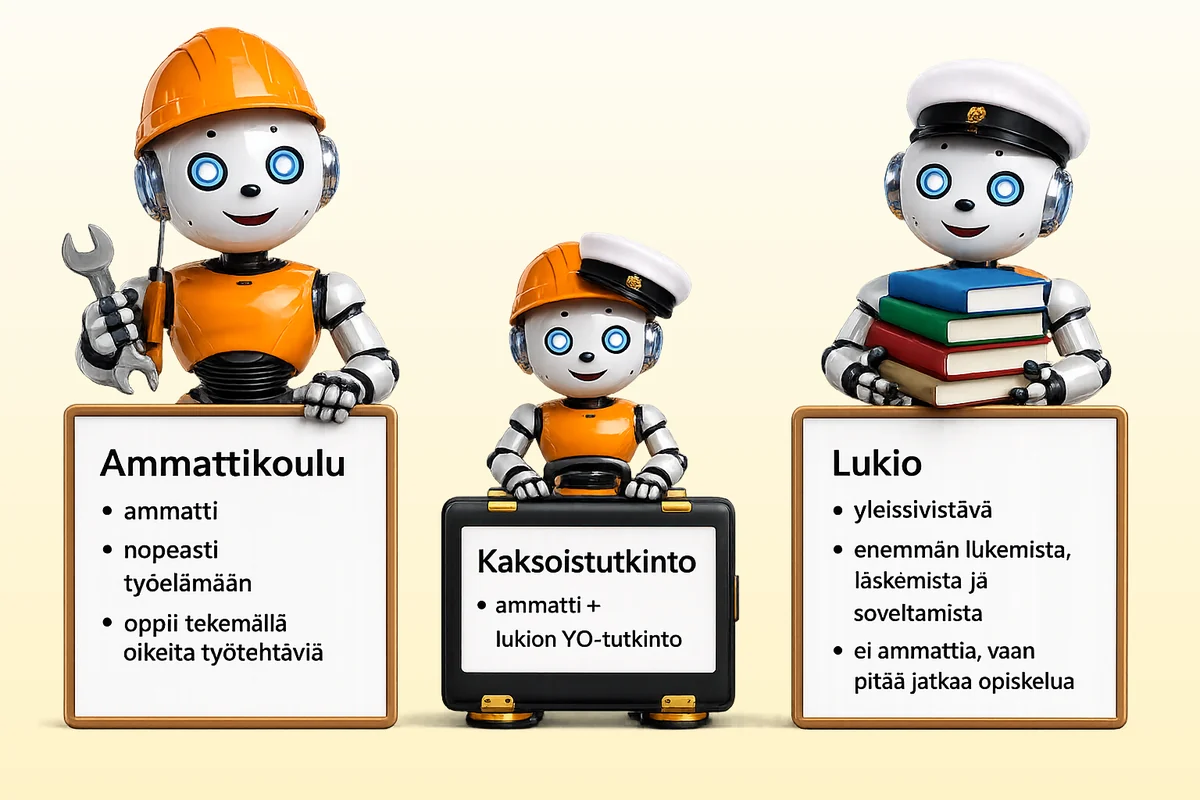
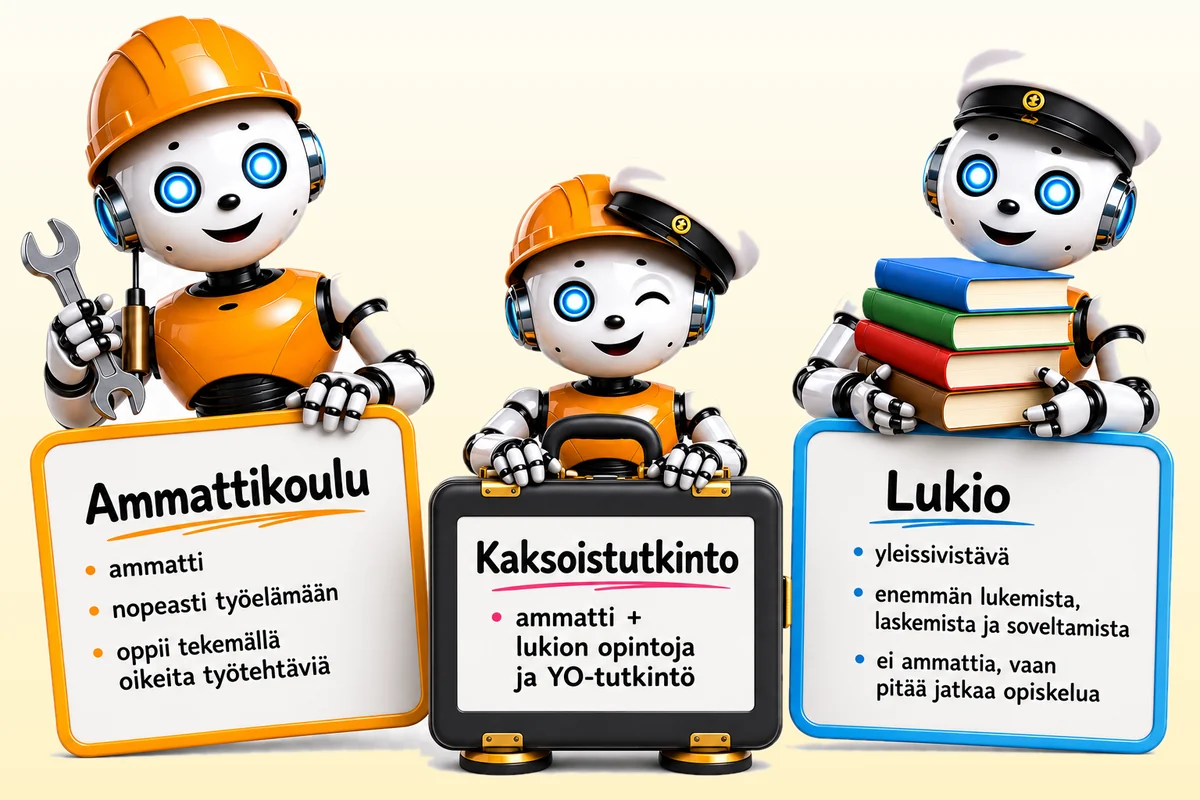
Vaihda amis-kaksari-lukio-kuva uuteen versioon (8lk)
- Uusi robottikuva (images/amis-kaksari-lukio.png) käsitelty samaan tyyliin:
  vaalea/ruudukkotausta korvattu keltaisella gradientilla (reunasta tunnistettu
  tausta-alue -> gradientti, kylttien valkoiset sisällöt säilyvät)
- Korvattu vanha amis-kaksari-lukio.webp uudella (113KB)
- Poistettu lähde-PNG (WebP-konventio)
- SW bump -> v24

diff --git a/sw.js b/sw.js
@@ -8,7 +8,7 @@
 // HUOM: nosta tätä versionumeroa AINA kun muutat esiladattua tiedostoa
 // (PRECACHE_ASSETS) tai muuta staattista sisältöä. Muuten selaimet tarjoilevat
 // vanhaa versiota välimuistista eikä korjaus näy käyttäjille.
-const CACHE_VERSION = "digiopo-v23";
+const CACHE_VERSION = "digiopo-v24";
 
 // Maksumuurin takana oleva sisältö: EI koskaan välimuistiin, jotta middleware
 // hallitsee pääsyä eikä suojattua sisältöä voi lukea offline ilman lisenssiä.
